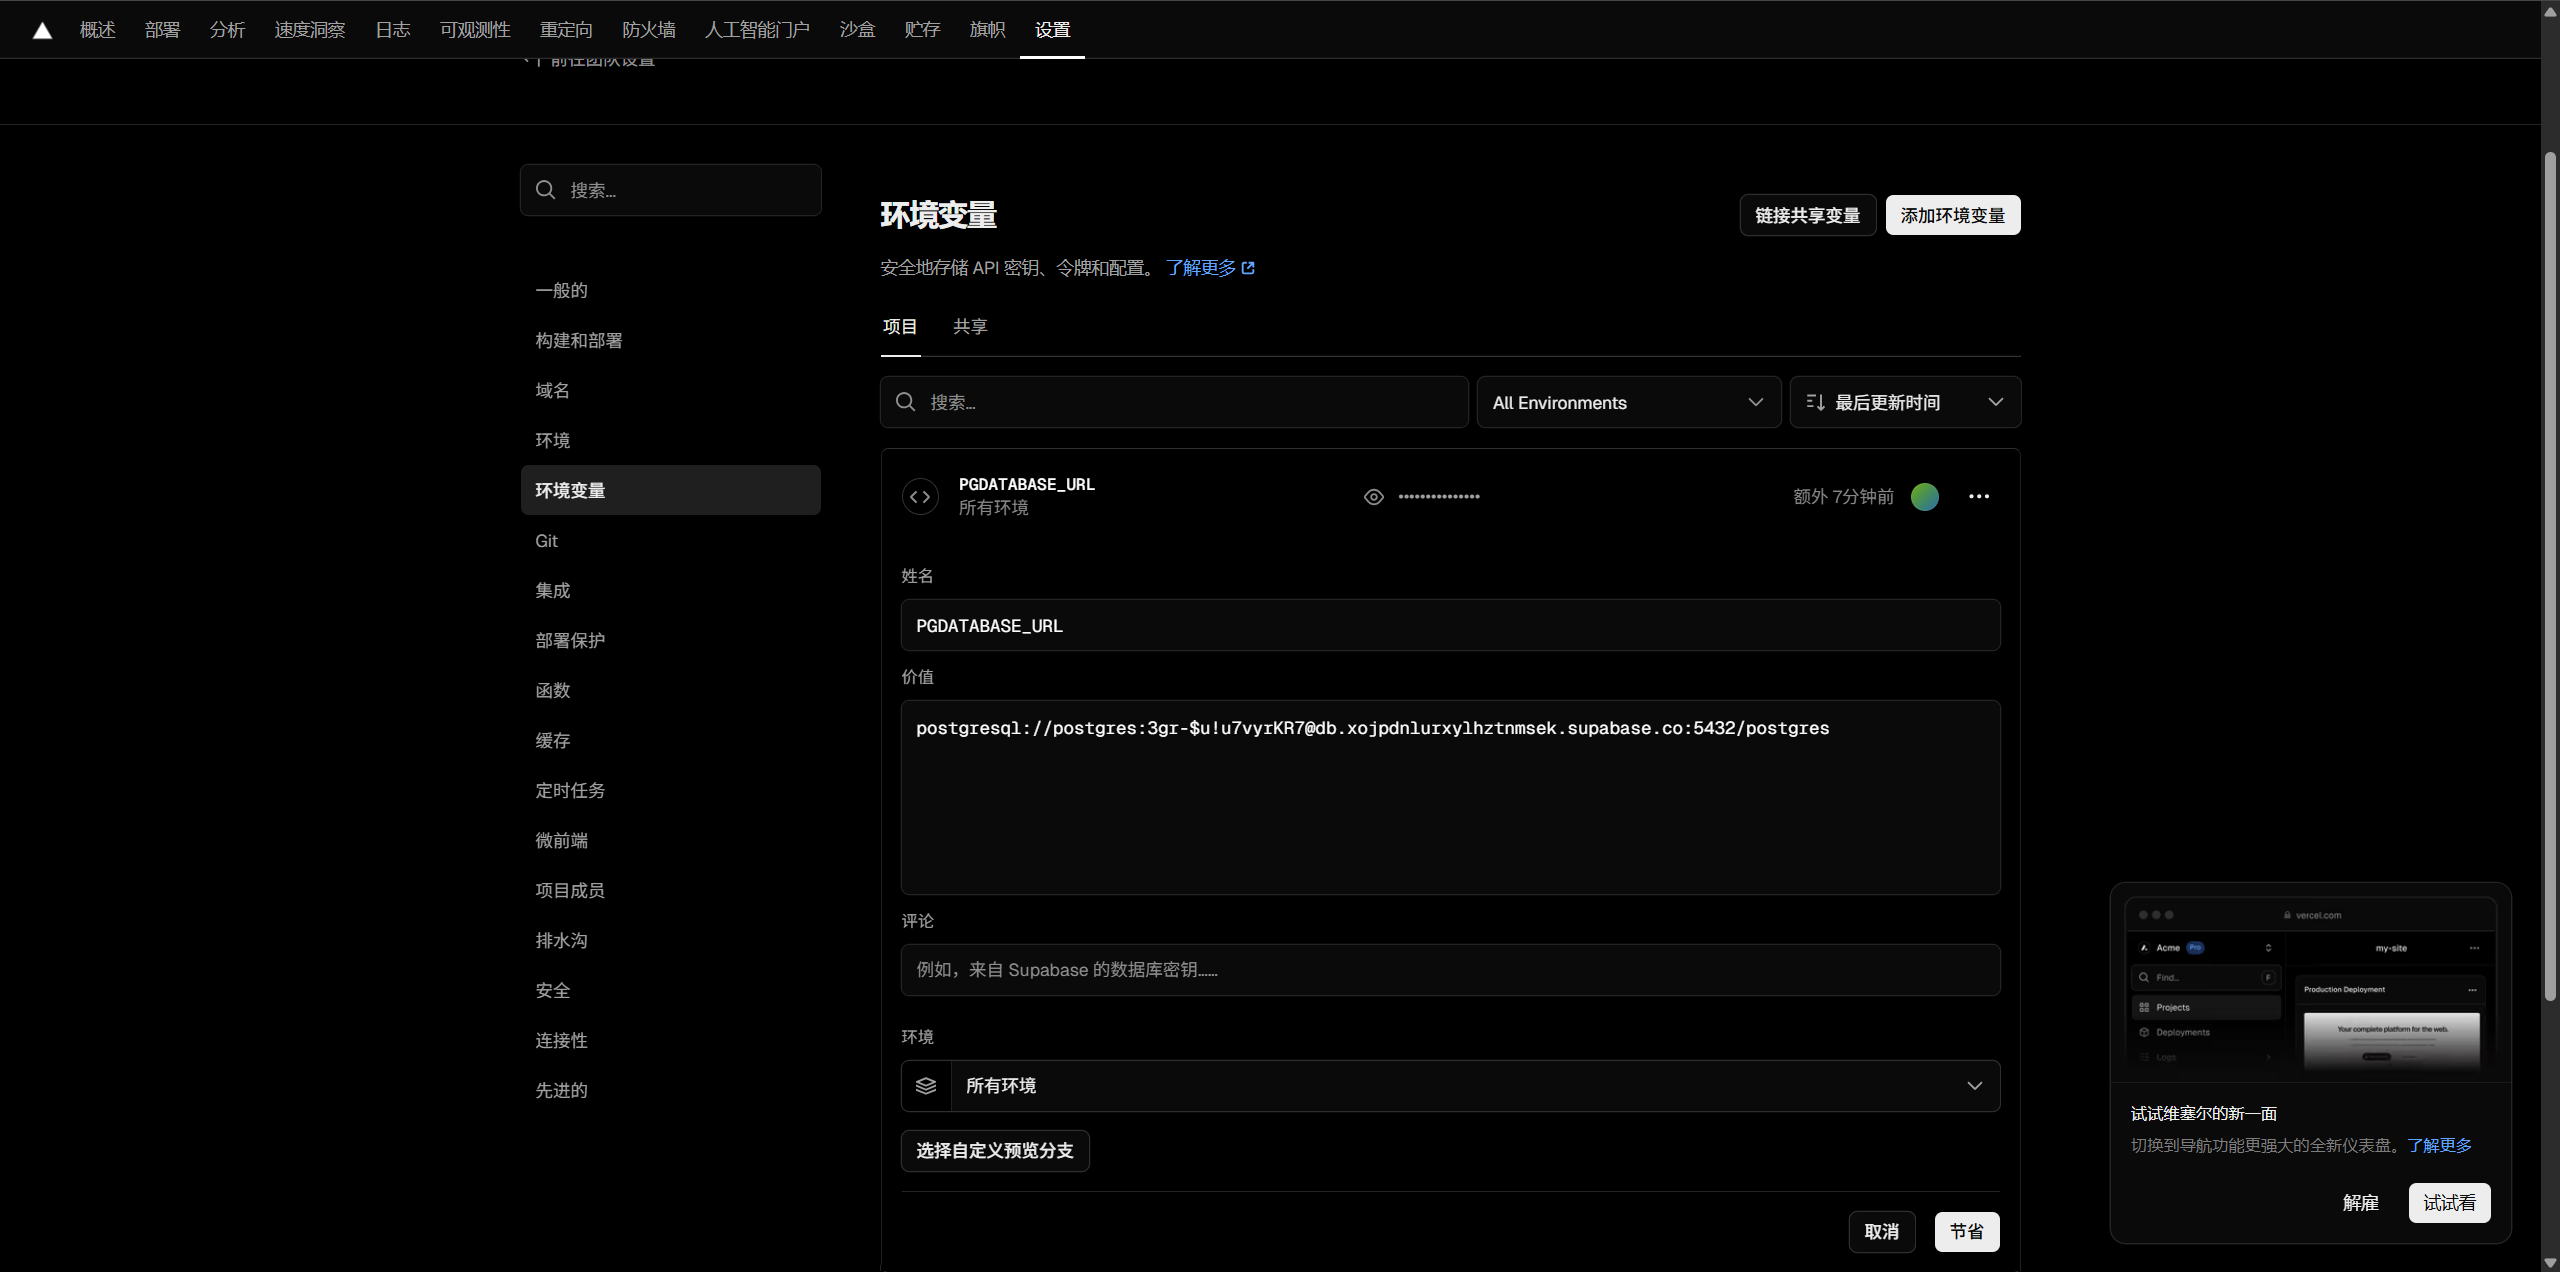
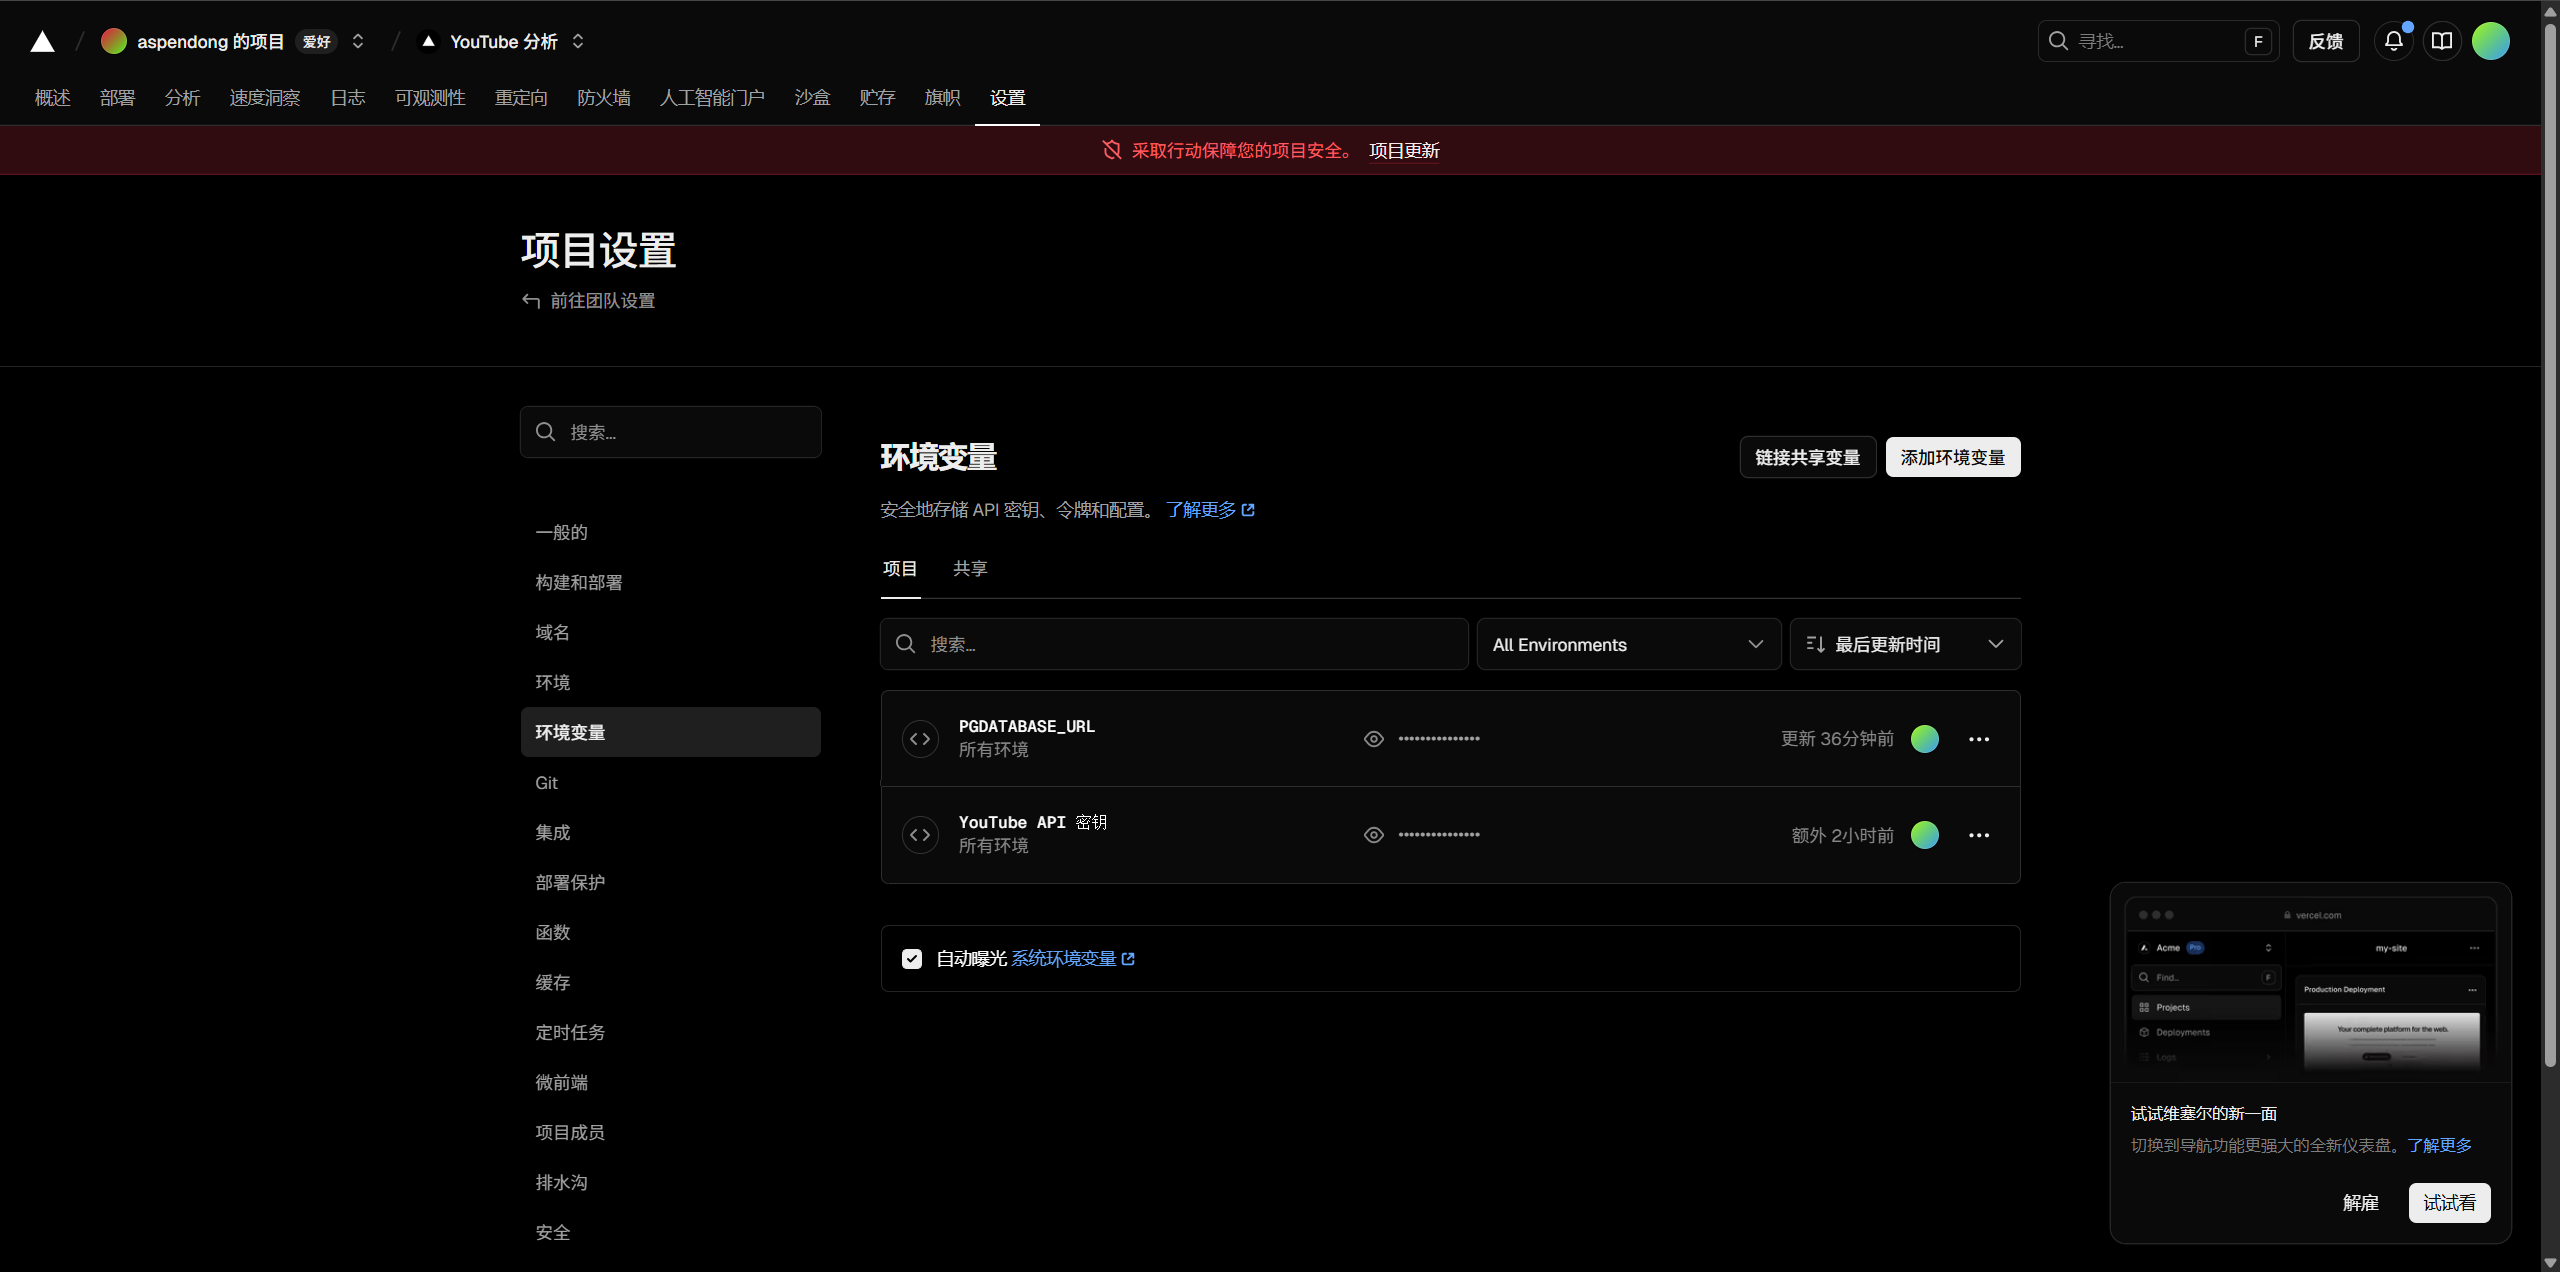
fix: add debug logging for environment variables

diff --git a/src/app/api/video-info/route.ts b/src/app/api/video-info/route.ts
@@ -42,16 +42,20 @@ export async function GET(request: NextRequest) {
   console.log('[API /api/video-info] 检查 API Key 配置:', {
     hasApiKey: !!apiKey,
     apiKeyLength: apiKey?.length || 0,
+    envKeys: Object.keys(process.env).filter(k => k.includes('YOUTUBE')),
   });
 
   if (!apiKey) {
     return NextResponse.json(
       {
         error: '未配置 YouTube API Key',
-        hint: '请手动输入视频信息，或联系管理员配置 YouTube API Key',
-        canManualInput: true,
+        hint: '请检查 Vercel 环境变量中是否已配置 YOUTUBE_API_KEY',
+        debug: {
+          hasApiKey: false,
+          envVarsAvailable: Object.keys(process.env).length,
+        },
       },
-      { status: 200 } // 改为 200，让前端可以正常处理
+      { status: 500 }
     );
   }
 

diff --git a/src/app/api/videos/route.ts b/src/app/api/videos/route.ts
@@ -58,7 +58,16 @@ export async function POST(request: NextRequest) {
 
     // 获取 YouTube API Key
     const apiKey = process.env.YOUTUBE_API_KEY;
-    console.log('[API /api/videos] 检查 API Key:', { hasApiKey: !!apiKey, length: apiKey?.length || 0 });
+    console.log('[API /api/videos] 检查 API Key:', {
+      hasApiKey: !!apiKey,
+      apiKeyLength: apiKey?.length || 0,
+      envKeys: Object.keys(process.env).filter(k => k.includes('YOUTUBE')),
+    });
+
+    if (!apiKey) {
+      console.error('[API /api/videos] 未配置 YouTube API Key，使用用户输入数据');
+      // 不返回错误，继续使用用户输入的数据
+    }
 
     // 创建视频记录（优先使用 API 数据，否则使用用户输入的数据）
     console.log('[API /api/videos] 准备创建视频记录');
